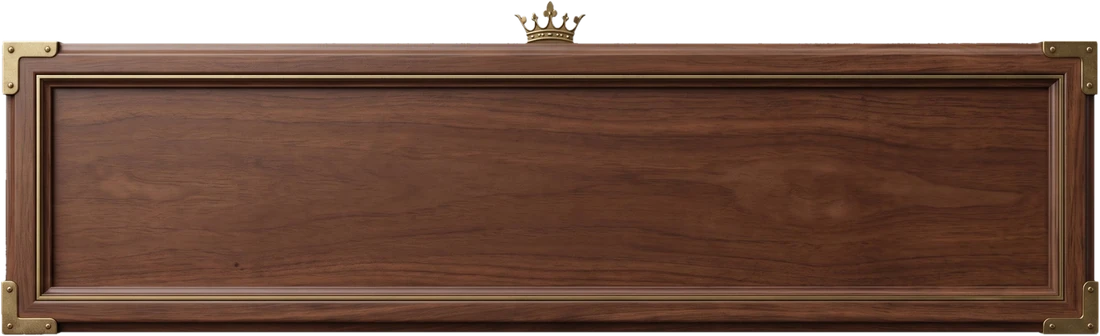
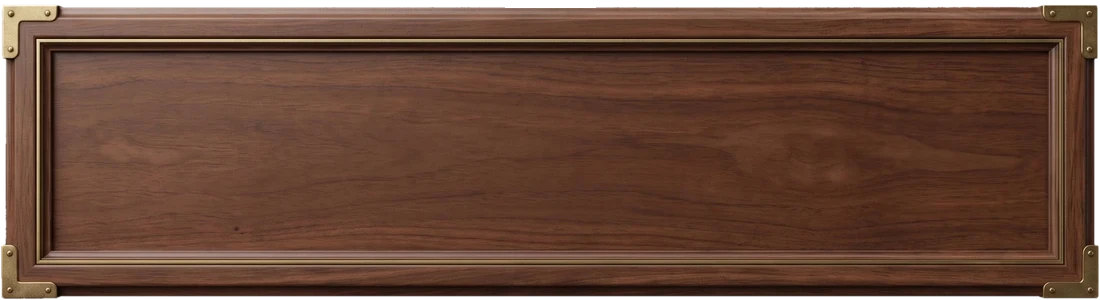
Plaque: smaller on phone, bigger crown, glowing star, tuned text sizes
Claude-Session: https://claude.ai/code/session_01WUBBhiD5cESZq3cYGqR8Un

diff --git a/index.html b/index.html
@@ -288,16 +288,17 @@ linear-gradient(115deg,rgba(255,255,255,.06) 0 16%,transparent 16%),radial-gradi
 .invbox input{flex:1 1 220px;min-width:0;padding:9px 12px;border-radius:8px;border:1px solid #2f4538;background:#0b1510;color:#dfe9e3;font:13px Inter,system-ui,sans-serif}
 .invbox .chip{cursor:pointer}
 
-.pq{display:block;position:absolute;z-index:4;left:50%;transform:translateX(-50%);width:24cqw;aspect-ratio:1100/336;background:url(assets/cab-sign3.webp) center/100% 100% no-repeat;filter:drop-shadow(0 .5cqw .9cqw rgba(0,0,0,.65));bottom:92.4%;letter-spacing:normal}
-.pq .in{position:absolute;left:8%;right:8%;top:29%;bottom:18%;display:flex;align-items:center;justify-content:center;gap:1.2cqw;box-sizing:border-box;min-width:0}
-.pq b{font:700 calc(var(--f,2.6)*1cqw)/1 "Barlow Condensed",sans-serif;letter-spacing:.1em;flex:0 1 auto;min-width:0;color:#f0d68c;text-shadow:0 1px 0 #000,0 0 .8cqw rgba(232,207,134,.25);max-width:14cqw;overflow:hidden;text-overflow:ellipsis;white-space:nowrap}
-.pq.hf b{font-size:2.7cqw;letter-spacing:.2em;max-width:none;overflow:visible;text-overflow:clip}
+.pq{display:block;position:absolute;z-index:4;left:50%;transform:translateX(-50%);width:24cqw;aspect-ratio:1100/300;background:url(assets/cab-sign3.webp) center/100% 100% no-repeat;filter:drop-shadow(0 .5cqw .9cqw rgba(0,0,0,.65));bottom:92.4%;letter-spacing:normal}
+.pq::before{content:"";position:absolute;left:50%;bottom:calc(100% - 2.7%);width:15.3%;aspect-ratio:84/44;transform:translateX(-50%);background:url(assets/cab-crown.webp) center/100% 100% no-repeat}
+.pq .in{position:absolute;left:8%;right:8%;top:20.5%;bottom:20%;display:flex;align-items:center;justify-content:center;gap:1.2cqw;box-sizing:border-box;min-width:0}
+.pq b{font:700 calc(var(--f,2)*1cqw)/1 "Barlow Condensed",sans-serif;letter-spacing:.1em;flex:0 1 auto;min-width:0;color:#f0d68c;text-shadow:0 1px 0 #000,0 0 .8cqw rgba(232,207,134,.25);max-width:11cqw;overflow:hidden;text-overflow:ellipsis;white-space:nowrap}
+.pq.hf b{font-size:2.1cqw;letter-spacing:.2em;max-width:none;overflow:visible;text-overflow:clip}
 .pq .sd{width:.15cqw;height:70%;flex:none;background:linear-gradient(transparent,#b8923f,transparent)}
-.pq .sn{display:flex;align-items:baseline;gap:.5cqw;flex:none;font:700 2.7cqw/1 "Barlow Condensed",sans-serif;color:#ffe08a;text-shadow:0 0 1cqw rgba(255,200,70,.4),0 1px 0 #000;letter-spacing:.04em}
-.pq .sn em{font-style:normal;font-size:2.3cqw;color:#f4c430}
+.pq .sn{display:flex;align-items:center;gap:.5cqw;flex:none;font:700 calc(var(--f,2)*1cqw)/1 "Barlow Condensed",sans-serif;color:#ffe08a;text-shadow:0 0 1cqw rgba(255,200,70,.4),0 1px 0 #000;letter-spacing:.04em}
+.pq .sn .st1{width:1.55em;height:1.55em;flex:none;margin:0;max-width:none;vertical-align:baseline;align-self:center;filter:drop-shadow(0 0 .3cqw rgba(255,200,70,1)) drop-shadow(0 0 .8cqw rgba(255,170,20,.85))}
 .cbw:has(.pq){padding-top:2.8cqw}
 @container (min-width:720px){.cbw .cbi:has(>.pq){overflow:visible}}
-@container (max-width:719px){.mcab:has(>.pq){overflow:visible;margin-top:36px}.mcab>.pq{width:250px;bottom:calc(100% - 46px);filter:drop-shadow(0 3px 4px rgba(0,0,0,.65))}.mcab>.pq .in{gap:8px}.mcab>.pq b{font-size:calc(var(--m,15)*1px);letter-spacing:.1em;max-width:110px}.mcab>.pq.hf b{font-size:17px;letter-spacing:.14em;max-width:none;overflow:visible}.mcab>.pq .sd{width:1.5px}.mcab>.pq .sn{font-size:19px;gap:3px}.mcab>.pq .sn em{font-size:15px}}
+@container (max-width:719px){.mcab:has(>.pq){overflow:visible;margin-top:30px}.mcab>.pq{width:175px;bottom:calc(100% - 46px);filter:drop-shadow(0 3px 4px rgba(0,0,0,.65))}.mcab>.pq::before{width:22%}.mcab>.pq .in{gap:6px}.mcab>.pq b{font-size:calc(var(--m,14)*1px);letter-spacing:.08em;max-width:80px}.mcab>.pq.hf b{font-size:14px;letter-spacing:.12em;max-width:none;overflow:visible}.mcab>.pq .sd{width:1.5px}.mcab>.pq .sn{font-size:calc(var(--m,14)*1px);gap:3px}.mcab>.pq .sn .st1{filter:drop-shadow(0 0 3px rgba(255,196,60,.95)) drop-shadow(0 0 7px rgba(255,176,30,.6))}}
 
 </style>
 <style id="cx">
@@ -521,7 +522,7 @@ const mineCab=()=>{const u=S.user,head='<div class="tcab cw">'+TDEFS+'<h2>Trophi
 if(!u)return head+'<p class="sub tn" style="text-align:center;margin:22px 0 12px">Log in to see your own trophy cabinet.</p><p style="text-align:center"><button class="btn" type="button" data-act="view" data-v="picks">Log in</button></p></div>';
 if(!S.tr||(S.user&&S.mt===null&&S.mtl))return head+'<p class="sub tn" style="margin:22px 0">Loading…</p></div>';
 const me=u.nick.toLowerCase(),aw=awardsFrom(S.tr),cnt=t=>aw.filter(a=>a.t===t&&String(a.nick).toLowerCase()===me).length,st=(S.mt&&S.mt.streak)||{cur:0,best:0,played:0},
-sr=(S.mt&&S.mt.stars)||{total:0,month:0},plaque='<span class="pq"><span class="in"><b style="--f:'+Math.max(1.1,Math.min(2.4,9/(u.nick.length*.95))).toFixed(2)+';--m:'+Math.max(8,Math.min(16,92/(u.nick.length*.82))).toFixed(1)+'">'+esc(u.nick.toUpperCase())+'</b><i class="sd"></i><span class="sn" title="Duel Stars: '+sr.total+' in total, '+sr.month+' this month"><em>★</em>'+sr.total+'</span></span></span>',iv=(S.mt&&S.mt.invites)||{total:0,active:0},ivOn=t=>iv.active>=t,ivSub=t=>ivOn(t)?'Earned':Math.min(iv.active,t)+'/'+t,c1=cnt('m1'),c2=cnt('m2'),c3=cnt('m3'),cp=cnt('pr'),X=v=>(v/1992*100).toFixed(3)+'%',Y=v=>(v/1478*100).toFixed(3)+'%';
+sr=(S.mt&&S.mt.stars)||{total:0,month:0},plq=k=>'<span class="pq" style="--f:'+Math.max(1.1,Math.min(1.9,7.4/(u.nick.length*.95))).toFixed(2)+';--m:'+Math.max(8,Math.min(14,66/(u.nick.length*.85))).toFixed(1)+'"><span class="in"><b>'+esc(u.nick.toUpperCase())+'</b><i class="sd"></i><span class="sn" title="Duel Stars: '+sr.total+' in total, '+sr.month+' this month">'+STAR.replace(/sg([AB])/g,'sg$1'+k)+sr.total+'</span></span></span>',plaque=plq('d'),plaque2=plq('p'),iv=(S.mt&&S.mt.invites)||{total:0,active:0},ivOn=t=>iv.active>=t,ivSub=t=>ivOn(t)?'Earned':Math.min(iv.active,t)+'/'+t,c1=cnt('m1'),c2=cnt('m2'),c3=cnt('m3'),cp=cnt('pr'),X=v=>(v/1992*100).toFixed(3)+'%',Y=v=>(v/1478*100).toFixed(3)+'%';
 const it=(f,cx,top,w,on)=>`<img class="it ${on?'on':'off'}" src="assets/t-${f}.webp" alt="" style="left:${X(cx)};top:${Y(top)};width:${X(w)}">`,
 pt=(cx,top,w,h,label,sub,on,cl)=>`<div class="pt ${on?'on':'off'} ${cl||''}" style="left:${X(cx)};top:${Y(top)};width:${X(w)};height:${Y(h)}"><b>${esc(label)}</b><span>${esc(sub)}</span></div>`,
 STR=[5,10,15],INV=[1,5,10],stOn=t=>st.best>=t;
@@ -533,7 +534,7 @@ const SX=[250,520,790],IX=[1190,1440,1690];
 STR.forEach((t,i)=>{im+=it('str'+t,SX[i],1030,200,stOn(t))+pt(SX[i],1280,230,84,t+' in a row',stOn(t)?'Earned':Math.min(st.best,t)+'/'+t,stOn(t),'cnt')});
 INV.forEach((t,i)=>{im+=it('inv'+t,IX[i],1040,190,ivOn(t))+pt(IX[i],1280,230,84,'Invite '+t,ivSub(t),ivOn(t),'cnt')});
 const cell=(f,l,sv,on,h)=>`<div class="mcell ${on?'on':'off'}"><img src="assets/t-${f}.webp" alt="" style="height:${h}px"><div class="mpl"><b>${l}</b><span>${sv}</span></div></div>`,
-list='<div class="cbm mcab"><i class="mh"></i>'+plaque+'<div class="msh"><div class="mg">'+cell('cup','Month winner','×'+c1,c1>0,124)+cell('medal2','2nd place','×'+c2,c2>0,124)+cell('medal3','3rd place','×'+c3,c3>0,124)+cell('shield','Perfect round','×'+cp,cp>0,124)+'</div></div><div class="mbd"></div><div class="msh"><div class="mlb">Round streak<small>best '+st.best+' · now '+st.cur+'</small></div><div class="mr3">'+STR.map(t=>cell('str'+t,t+' in a row',stOn(t)?'Earned':Math.min(st.best,t)+'/'+t,stOn(t),84)).join('')+'</div><div class="mlb" style="margin-top:12px">Invite a friend<small>'+iv.active+' playing · '+iv.total+' invited</small></div><div class="mr3">'+INV.map(t=>cell('inv'+t,'Invite '+t,ivSub(t),ivOn(t),84)).join('')+'</div></div></div>';
+list='<div class="cbm mcab"><i class="mh"></i>'+plaque2+'<div class="msh"><div class="mg">'+cell('cup','Month winner','×'+c1,c1>0,124)+cell('medal2','2nd place','×'+c2,c2>0,124)+cell('medal3','3rd place','×'+c3,c3>0,124)+cell('shield','Perfect round','×'+cp,cp>0,124)+'</div></div><div class="mbd"></div><div class="msh"><div class="mlb">Round streak<small>best '+st.best+' · now '+st.cur+'</small></div><div class="mr3">'+STR.map(t=>cell('str'+t,t+' in a row',stOn(t)?'Earned':Math.min(st.best,t)+'/'+t,stOn(t),84)).join('')+'</div><div class="mlb" style="margin-top:12px">Invite a friend<small>'+iv.active+' playing · '+iv.total+' invited</small></div><div class="mr3">'+INV.map(t=>cell('inv'+t,'Invite '+t,ivSub(t),ivOn(t),84)).join('')+'</div></div></div>';
 const invbox='<div class="invbox"><div class="it1"><b>Invite a friend</b><p class="lead">Every duel is better with friends, and the rivalry gets even sweeter. Bring your mates to the pitch and earn a badge for every milestone.</p><span>Badges for 1, 5 and 10 friends. A friend counts once they have played one round (picks on at least half of the pairs).</span></div><div class="ir"><input id="invl" readonly value="'+esc(invLink())+'" aria-label="Your invite link"><button class="chip on" type="button" data-act="copyinv">'+(S.invMsg||'Copy link')+'</button>'+(navigator.share?'<button class="chip" type="button" data-act="shareinv">Share</button>':'')+'</div></div>';
 return head+'<div class="cbw">'+list+'<div class="cbi">'+im+'</div></div>'+invbox+collectors(aw)+'</div>'};
 const cabDemo=()=>{const rd=[...new Set(S.all.slice().sort((a,b)=>Date.parse(a.lock)-Date.parse(b.lock)).map(p=>p.round))];
